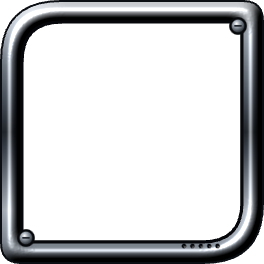
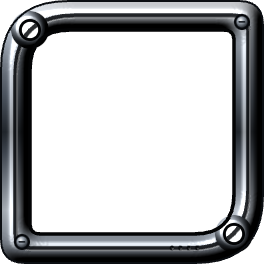
feat(ui): VECTOR luminous glass — tinted screens, liquid chrome body, lensed two-tier bezels
The screens are deep hue-tinted glass with a curved gloss sweep and a bloom from the
lower lip. The body and rails are liquid chrome, the logo and status readouts sit in
recessed LCD wells cut into the rail, and the housings are two-tier bezels with lit
lenses in the fat corners. Conduits are lit glass tubes, list entries are translucent
lit plates. The lock test covers the new pieces.

Changed region(s): [[0.0, 0.0, 1.0, 1.0]]

diff --git a/frontend/css/vector.css b/frontend/css/vector.css
@@ -1181,3 +1181,114 @@ html body.vx:not(.hud-mode):not(.rows-inbox) #screen-game #left :is(#workstreams
 html body.vx:not(.hud-mode) #screen-game #left .crew-portrait { border-radius: 7px; overflow: hidden; }
 html body.vx:not(.hud-mode) #screen-game #chat-panel :is(.cmsg-starter-refresh, .gd-agent-toggle) { border-radius: 999px; corner-shape: round; padding-inline: 14px; }
 html body.vx:not(.hud-mode) #screen-game #chat-panel .gd-agent-toggle { padding-inline: 4px; border-radius: 10px; }
+
+/* ============ 16 · LUMINOUS GLASS — the refs glow: deep tinted glass, gloss sweeps, lensed bosses, lit conduits ============ */
+html body.vx:not(.hud-mode) {
+  /* the glass body: the theme hue held deep inside dark glass (the playlist editor's blue, the DVD menu's green) */
+  --vx-glass-deep: linear-gradient(180deg, color-mix(in srgb, var(--ph) 17%, #02070a) 0%, color-mix(in srgb, var(--ph) 8%, #010305) 42%, color-mix(in srgb, var(--ph) 6%, #010305) 70%, color-mix(in srgb, var(--ph) 14%, #02060a) 100%);
+  /* the gloss: one hard curved reflection across the top-left of the glass (the Xbox player's screen, the drone's LCD) */
+  --vx-glass-sweep: radial-gradient(ellipse 160% 70% at 0% -30%, rgba(255, 255, 255, .13) 0, rgba(255, 255, 255, .05) 45%, transparent 45.4%);
+  --vx-lens: radial-gradient(circle, #fff 0 1px, color-mix(in srgb, var(--vx-core) 70%, #fff) 1.8px, var(--vx-core) 3px, rgba(var(--ph-rgb), .5) 5px, transparent 7px);
+}
+
+/* the housings: a fat two-tier chrome bezel, bosses with lit lenses in the fat corners */
+html body.vx:not(.hud-mode) #screen-game :is(#left, #chat-panel)::after {
+  inset: -4px; background-origin: border-box;
+  filter: drop-shadow(0 3px 4px rgba(0, 0, 0, .75)) drop-shadow(0 0 1px rgba(0, 0, 0, .9));
+}
+html body.vx:not(.hud-mode) #screen-game #left::after {
+  background: var(--vx-lens) 1px 1px / 28px 28px no-repeat, var(--vx-lens) right 1px bottom 1px / 28px 28px no-repeat; background-origin: border-box;
+  background-clip: border-box;
+}
+html body.vx:not(.hud-mode) #screen-game #chat-panel::after {
+  background: var(--vx-lens) right 1px top 1px / 28px 28px no-repeat, var(--vx-lens) left 1px bottom 1px / 28px 28px no-repeat; background-origin: border-box;
+  background-clip: border-box;
+}
+
+/* the glass: deep hue, a curved gloss, a hue bloom rising from the lower lip, a dark vignette */
+html body.vx:not(.hud-mode) #screen-game :is(#left, #chat-panel)::before {
+  inset: 8px;
+  background:
+    var(--vx-glass-sweep),
+    radial-gradient(ellipse 110% 22% at 50% 100%, rgba(var(--ph-rgb), .2), transparent 72%),
+    radial-gradient(ellipse 130% 40% at 50% 0%, rgba(var(--ph-rgb), .12), transparent 70%),
+    radial-gradient(ellipse 125% 95% at 50% 45%, transparent 56%, rgba(0, 0, 0, .55) 100%),
+    var(--vx-grain-tube),
+    var(--vx-glass-deep);
+  box-shadow:
+    inset 0 0 0 1px rgba(var(--ph-rgb), .6),
+    inset 0 0 0 2px rgba(0, 0, 0, .7),
+    inset 0 0 34px rgba(var(--ph-rgb), .2),
+    inset 0 12px 24px rgba(0, 0, 0, .8);
+}
+html body.vx:not(.hud-mode) #screen-game #left::before { border-radius: 20px 4px 20px 4px; }
+html body.vx:not(.hud-mode) #screen-game #chat-panel::before { border-radius: 4px 20px 4px 20px; }
+html body.vx:not(.hud-mode) .term:not(.pw)::before {
+  inset: 7px;
+  background:
+    var(--vx-glass-sweep),
+    radial-gradient(ellipse 110% 26% at 50% 100%, rgba(var(--ph-rgb), .16), transparent 72%),
+    radial-gradient(ellipse 125% 95% at 50% 45%, transparent 58%, rgba(0, 0, 0, .5) 100%),
+    var(--vx-grain-tube),
+    var(--vx-glass-deep);
+}
+html body.vx:not(.hud-mode) .term:not(.pw)::after { inset: -3px; filter: drop-shadow(0 3px 4px rgba(0, 0, 0, .75)); }
+
+/* the conduits between the screens: glass tubes with a lit core in chrome collars (the energy tubes of the chrome skins) */
+html body.vx:not(.hud-mode) #screen-game :is(.crew-resizer, .col-resizer) {
+  background:
+    linear-gradient(90deg, transparent 2px, rgba(255, 255, 255, .5) 3px, transparent 4.5px) center / 9px 100% no-repeat,
+    linear-gradient(90deg, rgba(var(--ph-rgb), 0) 0, rgba(var(--ph-rgb), .55) 30%, color-mix(in srgb, var(--vx-core) 55%, #fff) 50%, rgba(var(--ph-rgb), .55) 70%, rgba(var(--ph-rgb), 0)) center / 5px 100% no-repeat,
+    linear-gradient(90deg, #050608, #2a3038 18%, #0b0e11 50%, #2a3038 82%, #050608) center / 9px 100% no-repeat;
+  filter: drop-shadow(0 0 4px rgba(var(--ph-rgb), .35));
+}
+
+/* list plates (the DVD menu's stacked clip slots): translucent hue glass with a lit rim, never a dark box */
+html body.vx:not(.hud-mode) #screen-game #left :is(#workstreams, #projects, #crew) :is(.ws-row, .crew-row):not(.sel):not(.selected),
+html body.vx:not(.hud-mode) #screen-game #chat-panel .cmsg-starter {
+  background:
+    linear-gradient(180deg, rgba(255, 255, 255, .09), rgba(255, 255, 255, 0) 48%),
+    linear-gradient(180deg, rgba(var(--ph-rgb), .2), rgba(var(--ph-rgb), .07) 55%, rgba(var(--ph-rgb), .13)) !important;
+  box-shadow: inset 0 0 0 1px rgba(var(--ph-rgb), .5), inset 0 1px 0 rgba(255, 255, 255, .18), 0 2px 5px rgba(0, 0, 0, .55) !important;
+}
+html body.vx:not(.hud-mode) #screen-game #chat-panel .cmsg-starter:is(:hover, :focus-visible) {
+  background: linear-gradient(180deg, rgba(255, 255, 255, .16), rgba(255, 255, 255, 0) 50%), linear-gradient(180deg, rgba(var(--ph-rgb), .38), rgba(var(--ph-rgb), .16)) !important;
+  box-shadow: inset 0 0 0 1px var(--vx-core), 0 0 14px rgba(var(--ph-rgb), .35) !important;
+}
+/* the bezel reaches out past the screen's box into the gutters: clip with a margin instead of hiding (no scroll container) */
+html body.vx:not(.hud-mode) #screen-game :is(#left, #chat-panel) { overflow: clip; overflow-clip-margin: 6px; }
+
+/* the body is LIQUID CHROME (the skins are chrome first, glass second): a bright specular crown, a dark waist, a lower
+   reflection band. The screens and rails sit in it like inlays */
+html body.vx:not(.hud-mode) #screen-game.active {
+  background:
+    radial-gradient(ellipse 50% 18% at 22% 0%, rgba(255, 255, 255, .3), transparent 70%),
+    radial-gradient(ellipse 40% 16% at 80% 100%, rgba(255, 255, 255, .16), transparent 70%),
+    radial-gradient(ellipse 22% 60% at 0% 50%, rgba(255, 255, 255, .14), transparent 70%),
+    radial-gradient(ellipse 22% 60% at 100% 50%, rgba(255, 255, 255, .1), transparent 70%),
+    var(--vx-grain),
+    linear-gradient(180deg, #6d7682 0%, #3a414a 14%, #1c2127 40%, #262c33 62%, #4a525c 86%, #22272d 100%);
+}
+html body.vx:not(.hud-mode) #screen-game :is(#topbar, #bottombar) {
+  --vx-metal-hi: #c9d0d8; --vx-metal: #343b44; --vx-metal-lo: #0e1114;
+  box-shadow: 0 0 0 1px #050608, inset 0 1px 0 rgba(255, 255, 255, .7), inset 0 -2px 3px rgba(0, 0, 0, .6), 0 4px 8px rgba(0, 0, 0, .6);
+}
+/* the readouts on the rails sit in recessed LCD wells cut into the chrome (the skins' time + title windows) */
+html body.vx:not(.hud-mode) #screen-game #topbar :is(.tb-stats),
+html body.vx:not(.hud-mode) #screen-game #topbar::before,
+html body.vx:not(.hud-mode) #screen-game #bottombar .bb-right {
+  border-radius: 14px; corner-shape: round;
+  background:
+    radial-gradient(ellipse 120% 70% at 30% 0%, rgba(255, 255, 255, .08), transparent 60%),
+    linear-gradient(180deg, color-mix(in srgb, var(--ph) 14%, #020504), color-mix(in srgb, var(--ph) 5%, #010302) 60%, color-mix(in srgb, var(--ph) 12%, #020504));
+  box-shadow: inset 0 2px 5px rgba(0, 0, 0, .95), inset 0 0 0 1px rgba(var(--ph-rgb), .45), inset 0 0 14px rgba(var(--ph-rgb), .18),
+    0 0 0 2px #0a0c0f, 0 1px 0 2px rgba(255, 255, 255, .45);
+}
+html body.vx:not(.hud-mode) #screen-game #topbar::before { content: ''; position: absolute; inset: 8px auto 8px 14px; width: 188px; pointer-events: none; }
+html body.vx:not(.hud-mode) #screen-game #topbar .tb-stats { margin-block: 7px; padding-inline: 10px; }
+
+/* dock keys: dark capsules seated in bright chrome collars, legends lit */
+html body.vx:not(.hud-mode) #screen-game #bottombar .bb-group > .bb-grp,
+html body.vx:not(.hud-mode) #screen-game :is(#topbar, #bottombar) .widget-rail .wg-add {
+  box-shadow: inset 0 1px 0 rgba(255, 255, 255, .45), inset 0 -1px 0 rgba(0, 0, 0, .7), 0 0 0 1px #050608, 0 0 0 3px #aab3be, 0 0 0 4px #050608, 0 3px 5px rgba(0, 0, 0, .6);
+}

diff --git a/website/app/css/vector.css b/website/app/css/vector.css
@@ -1181,3 +1181,114 @@ html body.vx:not(.hud-mode):not(.rows-inbox) #screen-game #left :is(#workstreams
 html body.vx:not(.hud-mode) #screen-game #left .crew-portrait { border-radius: 7px; overflow: hidden; }
 html body.vx:not(.hud-mode) #screen-game #chat-panel :is(.cmsg-starter-refresh, .gd-agent-toggle) { border-radius: 999px; corner-shape: round; padding-inline: 14px; }
 html body.vx:not(.hud-mode) #screen-game #chat-panel .gd-agent-toggle { padding-inline: 4px; border-radius: 10px; }
+
+/* ============ 16 · LUMINOUS GLASS — the refs glow: deep tinted glass, gloss sweeps, lensed bosses, lit conduits ============ */
+html body.vx:not(.hud-mode) {
+  /* the glass body: the theme hue held deep inside dark glass (the playlist editor's blue, the DVD menu's green) */
+  --vx-glass-deep: linear-gradient(180deg, color-mix(in srgb, var(--ph) 17%, #02070a) 0%, color-mix(in srgb, var(--ph) 8%, #010305) 42%, color-mix(in srgb, var(--ph) 6%, #010305) 70%, color-mix(in srgb, var(--ph) 14%, #02060a) 100%);
+  /* the gloss: one hard curved reflection across the top-left of the glass (the Xbox player's screen, the drone's LCD) */
+  --vx-glass-sweep: radial-gradient(ellipse 160% 70% at 0% -30%, rgba(255, 255, 255, .13) 0, rgba(255, 255, 255, .05) 45%, transparent 45.4%);
+  --vx-lens: radial-gradient(circle, #fff 0 1px, color-mix(in srgb, var(--vx-core) 70%, #fff) 1.8px, var(--vx-core) 3px, rgba(var(--ph-rgb), .5) 5px, transparent 7px);
+}
+
+/* the housings: a fat two-tier chrome bezel, bosses with lit lenses in the fat corners */
+html body.vx:not(.hud-mode) #screen-game :is(#left, #chat-panel)::after {
+  inset: -4px; background-origin: border-box;
+  filter: drop-shadow(0 3px 4px rgba(0, 0, 0, .75)) drop-shadow(0 0 1px rgba(0, 0, 0, .9));
+}
+html body.vx:not(.hud-mode) #screen-game #left::after {
+  background: var(--vx-lens) 1px 1px / 28px 28px no-repeat, var(--vx-lens) right 1px bottom 1px / 28px 28px no-repeat; background-origin: border-box;
+  background-clip: border-box;
+}
+html body.vx:not(.hud-mode) #screen-game #chat-panel::after {
+  background: var(--vx-lens) right 1px top 1px / 28px 28px no-repeat, var(--vx-lens) left 1px bottom 1px / 28px 28px no-repeat; background-origin: border-box;
+  background-clip: border-box;
+}
+
+/* the glass: deep hue, a curved gloss, a hue bloom rising from the lower lip, a dark vignette */
+html body.vx:not(.hud-mode) #screen-game :is(#left, #chat-panel)::before {
+  inset: 8px;
+  background:
+    var(--vx-glass-sweep),
+    radial-gradient(ellipse 110% 22% at 50% 100%, rgba(var(--ph-rgb), .2), transparent 72%),
+    radial-gradient(ellipse 130% 40% at 50% 0%, rgba(var(--ph-rgb), .12), transparent 70%),
+    radial-gradient(ellipse 125% 95% at 50% 45%, transparent 56%, rgba(0, 0, 0, .55) 100%),
+    var(--vx-grain-tube),
+    var(--vx-glass-deep);
+  box-shadow:
+    inset 0 0 0 1px rgba(var(--ph-rgb), .6),
+    inset 0 0 0 2px rgba(0, 0, 0, .7),
+    inset 0 0 34px rgba(var(--ph-rgb), .2),
+    inset 0 12px 24px rgba(0, 0, 0, .8);
+}
+html body.vx:not(.hud-mode) #screen-game #left::before { border-radius: 20px 4px 20px 4px; }
+html body.vx:not(.hud-mode) #screen-game #chat-panel::before { border-radius: 4px 20px 4px 20px; }
+html body.vx:not(.hud-mode) .term:not(.pw)::before {
+  inset: 7px;
+  background:
+    var(--vx-glass-sweep),
+    radial-gradient(ellipse 110% 26% at 50% 100%, rgba(var(--ph-rgb), .16), transparent 72%),
+    radial-gradient(ellipse 125% 95% at 50% 45%, transparent 58%, rgba(0, 0, 0, .5) 100%),
+    var(--vx-grain-tube),
+    var(--vx-glass-deep);
+}
+html body.vx:not(.hud-mode) .term:not(.pw)::after { inset: -3px; filter: drop-shadow(0 3px 4px rgba(0, 0, 0, .75)); }
+
+/* the conduits between the screens: glass tubes with a lit core in chrome collars (the energy tubes of the chrome skins) */
+html body.vx:not(.hud-mode) #screen-game :is(.crew-resizer, .col-resizer) {
+  background:
+    linear-gradient(90deg, transparent 2px, rgba(255, 255, 255, .5) 3px, transparent 4.5px) center / 9px 100% no-repeat,
+    linear-gradient(90deg, rgba(var(--ph-rgb), 0) 0, rgba(var(--ph-rgb), .55) 30%, color-mix(in srgb, var(--vx-core) 55%, #fff) 50%, rgba(var(--ph-rgb), .55) 70%, rgba(var(--ph-rgb), 0)) center / 5px 100% no-repeat,
+    linear-gradient(90deg, #050608, #2a3038 18%, #0b0e11 50%, #2a3038 82%, #050608) center / 9px 100% no-repeat;
+  filter: drop-shadow(0 0 4px rgba(var(--ph-rgb), .35));
+}
+
+/* list plates (the DVD menu's stacked clip slots): translucent hue glass with a lit rim, never a dark box */
+html body.vx:not(.hud-mode) #screen-game #left :is(#workstreams, #projects, #crew) :is(.ws-row, .crew-row):not(.sel):not(.selected),
+html body.vx:not(.hud-mode) #screen-game #chat-panel .cmsg-starter {
+  background:
+    linear-gradient(180deg, rgba(255, 255, 255, .09), rgba(255, 255, 255, 0) 48%),
+    linear-gradient(180deg, rgba(var(--ph-rgb), .2), rgba(var(--ph-rgb), .07) 55%, rgba(var(--ph-rgb), .13)) !important;
+  box-shadow: inset 0 0 0 1px rgba(var(--ph-rgb), .5), inset 0 1px 0 rgba(255, 255, 255, .18), 0 2px 5px rgba(0, 0, 0, .55) !important;
+}
+html body.vx:not(.hud-mode) #screen-game #chat-panel .cmsg-starter:is(:hover, :focus-visible) {
+  background: linear-gradient(180deg, rgba(255, 255, 255, .16), rgba(255, 255, 255, 0) 50%), linear-gradient(180deg, rgba(var(--ph-rgb), .38), rgba(var(--ph-rgb), .16)) !important;
+  box-shadow: inset 0 0 0 1px var(--vx-core), 0 0 14px rgba(var(--ph-rgb), .35) !important;
+}
+/* the bezel reaches out past the screen's box into the gutters: clip with a margin instead of hiding (no scroll container) */
+html body.vx:not(.hud-mode) #screen-game :is(#left, #chat-panel) { overflow: clip; overflow-clip-margin: 6px; }
+
+/* the body is LIQUID CHROME (the skins are chrome first, glass second): a bright specular crown, a dark waist, a lower
+   reflection band. The screens and rails sit in it like inlays */
+html body.vx:not(.hud-mode) #screen-game.active {
+  background:
+    radial-gradient(ellipse 50% 18% at 22% 0%, rgba(255, 255, 255, .3), transparent 70%),
+    radial-gradient(ellipse 40% 16% at 80% 100%, rgba(255, 255, 255, .16), transparent 70%),
+    radial-gradient(ellipse 22% 60% at 0% 50%, rgba(255, 255, 255, .14), transparent 70%),
+    radial-gradient(ellipse 22% 60% at 100% 50%, rgba(255, 255, 255, .1), transparent 70%),
+    var(--vx-grain),
+    linear-gradient(180deg, #6d7682 0%, #3a414a 14%, #1c2127 40%, #262c33 62%, #4a525c 86%, #22272d 100%);
+}
+html body.vx:not(.hud-mode) #screen-game :is(#topbar, #bottombar) {
+  --vx-metal-hi: #c9d0d8; --vx-metal: #343b44; --vx-metal-lo: #0e1114;
+  box-shadow: 0 0 0 1px #050608, inset 0 1px 0 rgba(255, 255, 255, .7), inset 0 -2px 3px rgba(0, 0, 0, .6), 0 4px 8px rgba(0, 0, 0, .6);
+}
+/* the readouts on the rails sit in recessed LCD wells cut into the chrome (the skins' time + title windows) */
+html body.vx:not(.hud-mode) #screen-game #topbar :is(.tb-stats),
+html body.vx:not(.hud-mode) #screen-game #topbar::before,
+html body.vx:not(.hud-mode) #screen-game #bottombar .bb-right {
+  border-radius: 14px; corner-shape: round;
+  background:
+    radial-gradient(ellipse 120% 70% at 30% 0%, rgba(255, 255, 255, .08), transparent 60%),
+    linear-gradient(180deg, color-mix(in srgb, var(--ph) 14%, #020504), color-mix(in srgb, var(--ph) 5%, #010302) 60%, color-mix(in srgb, var(--ph) 12%, #020504));
+  box-shadow: inset 0 2px 5px rgba(0, 0, 0, .95), inset 0 0 0 1px rgba(var(--ph-rgb), .45), inset 0 0 14px rgba(var(--ph-rgb), .18),
+    0 0 0 2px #0a0c0f, 0 1px 0 2px rgba(255, 255, 255, .45);
+}
+html body.vx:not(.hud-mode) #screen-game #topbar::before { content: ''; position: absolute; inset: 8px auto 8px 14px; width: 188px; pointer-events: none; }
+html body.vx:not(.hud-mode) #screen-game #topbar .tb-stats { margin-block: 7px; padding-inline: 10px; }
+
+/* dock keys: dark capsules seated in bright chrome collars, legends lit */
+html body.vx:not(.hud-mode) #screen-game #bottombar .bb-group > .bb-grp,
+html body.vx:not(.hud-mode) #screen-game :is(#topbar, #bottombar) .widget-rail .wg-add {
+  box-shadow: inset 0 1px 0 rgba(255, 255, 255, .45), inset 0 -1px 0 rgba(0, 0, 0, .7), 0 0 0 1px #050608, 0 0 0 3px #aab3be, 0 0 0 4px #050608, 0 3px 5px rgba(0, 0, 0, .6);
+}

diff --git a/test/vector-identity.test.js b/test/vector-identity.test.js
@@ -128,4 +128,10 @@ A.ok(!/background-blend-mode:[^;]*multiply/.test(css), 'no circuit-trace patch a
 A.ok(/#left :is\(#workstreams, #projects, #crew\) :is\(\.ws-row, \.crew-row\) \{ border-radius: 9px/.test(css),
   'rail rows are moulded glass slots (rounded), never square tiles');
 A.ok(/--vx-slot:/.test(css) && /--vx-gloss:/.test(css), 'list entries are glass slots and the chosen one is the gloss slot');
+// ---- luminous glass (Andrew 2026-11-08: "more gorgeous like these … 2010s y2k future winamp style"): the screens are deep
+// tinted glass with a gloss sweep, the body is liquid chrome, the fat housing corners carry lit lenses ----
+A.ok(/--vx-glass-deep:\s*linear-gradient\([^;]*var\(--ph\)/.test(css), 'the glass holds the theme hue (deep tinted glass, never flat black)');
+A.ok(/#left, #chat-panel\)::before \{[^}]*var\(--vx-glass-sweep\)[^}]*var\(--vx-glass-deep\)/.test(css), 'CREW and COMMS glass carry the gloss sweep over the tinted body');
+A.ok(/#left::after \{[^}]*var\(--vx-lens\)/.test(css) && /#chat-panel::after \{[^}]*var\(--vx-lens\)/.test(css), 'the fat housing corners carry lit lenses');
+A.ok(/#topbar::before \{[^}]*content: ''/.test(css) && !/logo/i.test(css), 'the logo sits in an LCD well cut into the rail, never by styling the logo itself');
 A.report('vector-identity');
